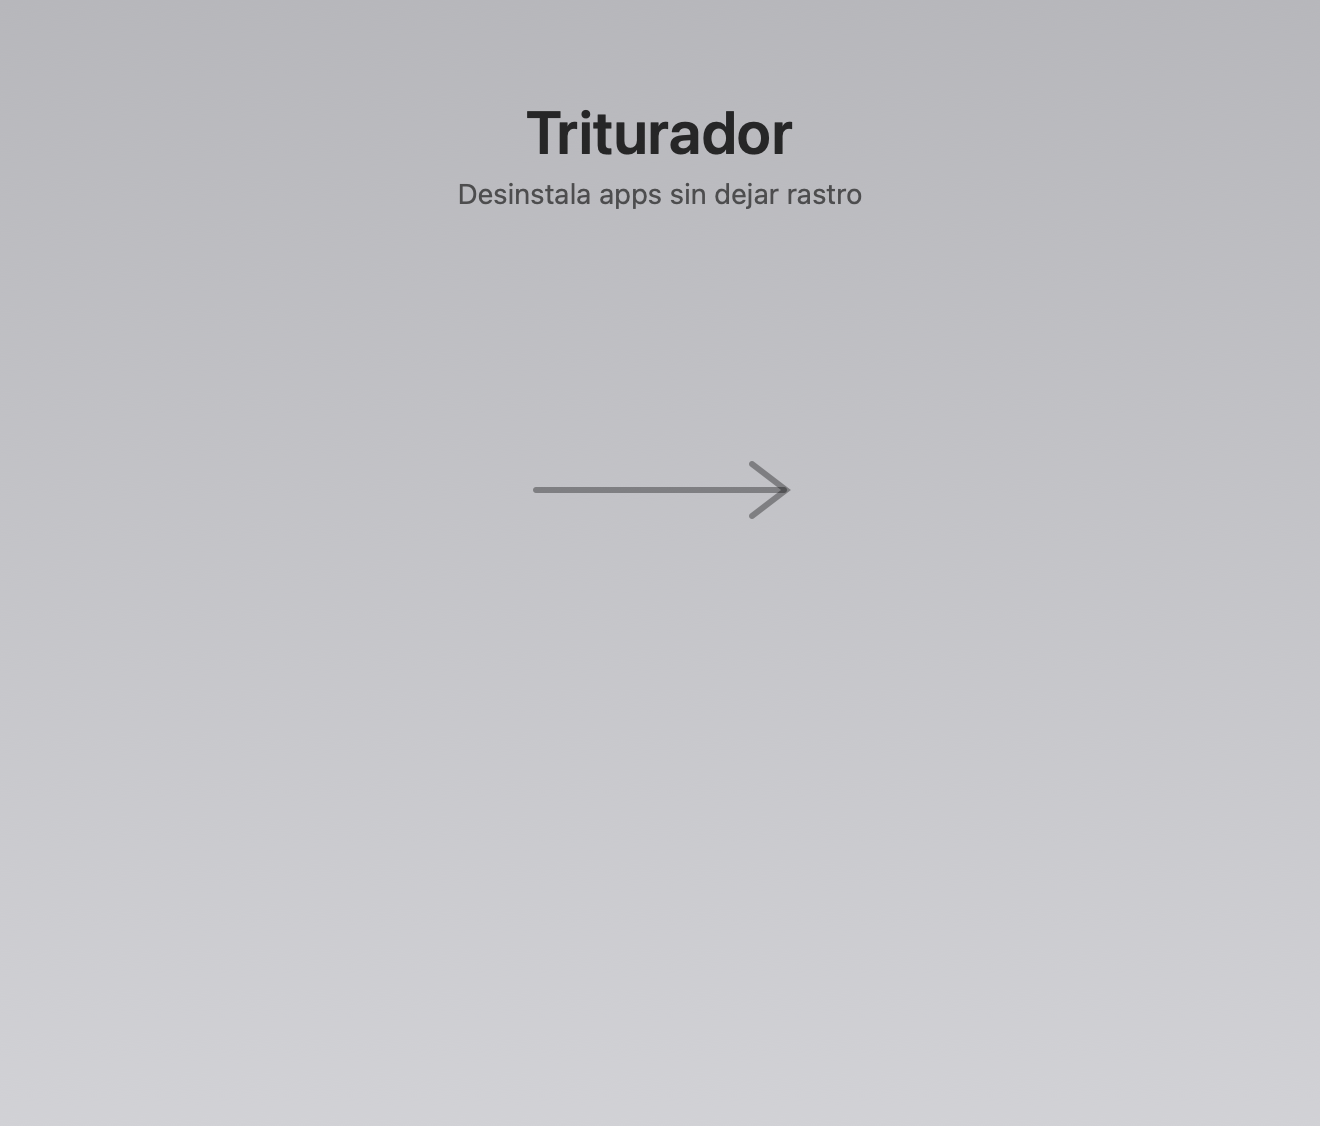
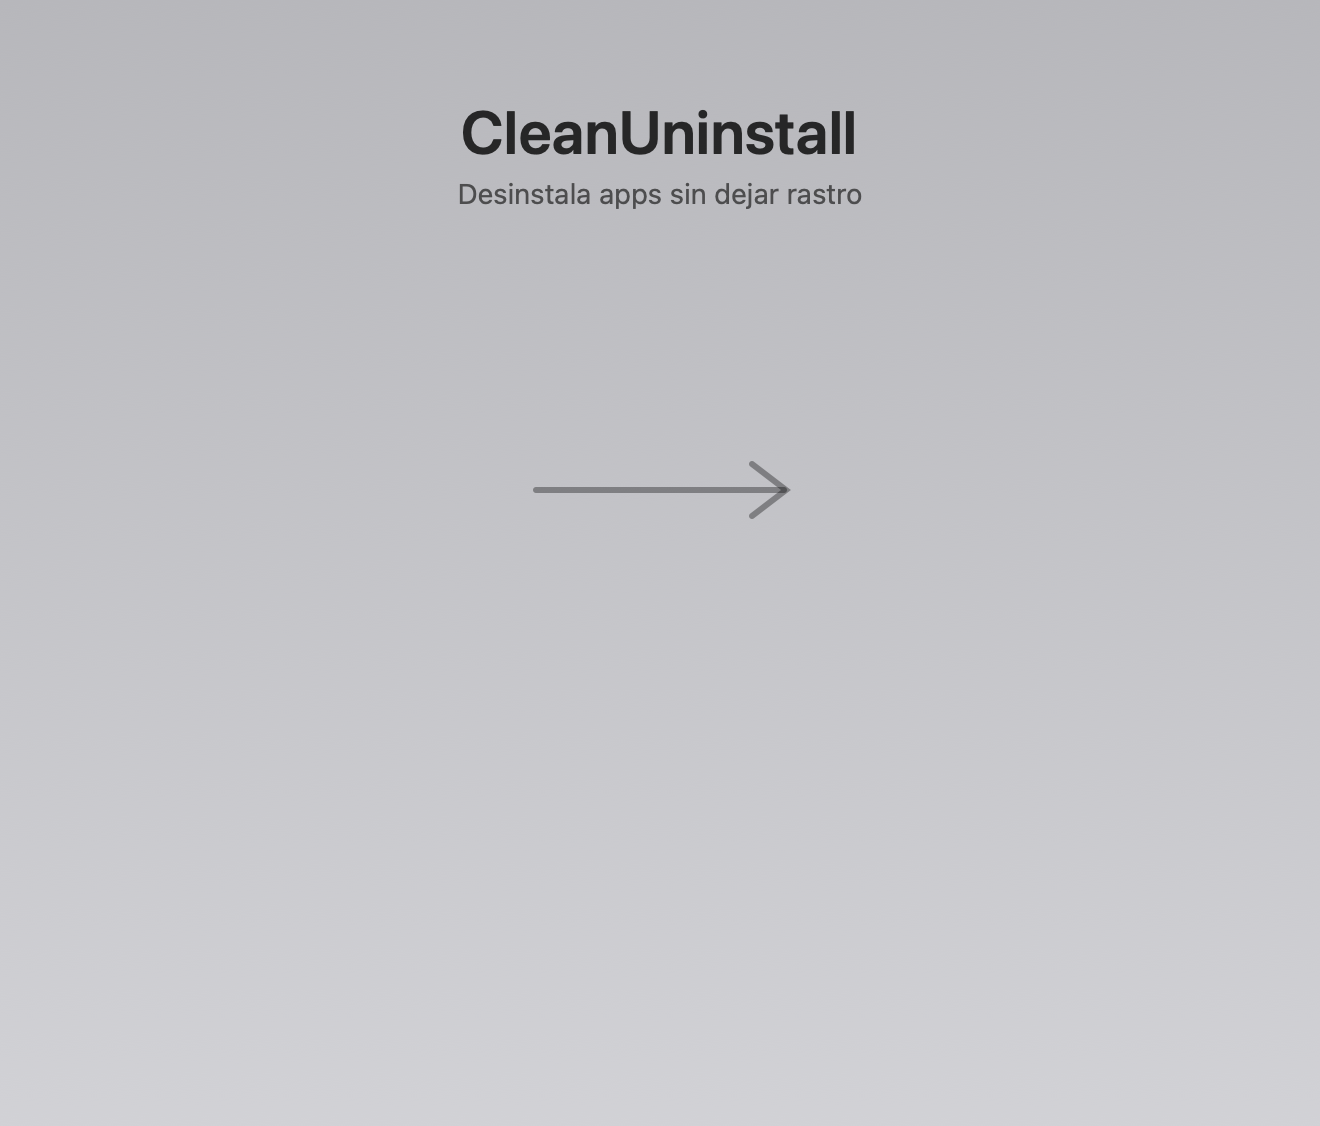
Se llama CleanUninstall (antes Triturador) y actualización automática opcional
- Nombre visible, ventana, textos, DMG, LÉEME, README y fondo del DMG.
  El identificador (com.snapsis.triturador) no cambia: los permisos siguen.
- Transición desde la 1.1.0: el DMG lleva una copia oculta «Triturador.app»
  para su actualizador, y la app se renombra sola al abrirse con ese nombre.
- El DMG pasa a APFS: en HFS+ la marca de oculto se guarda como FinderInfo
  y rompe la firma.
- Actualizador con «Actualizar automáticamente» (mismo de Calculadora+).

Changed region(s): [[0.3417, 0.0933, 0.6523, 0.1554]]

diff --git a/Sources/Triturador/Actualizacion.swift b/Sources/Triturador/Actualizacion.swift
@@ -3,11 +3,11 @@ import CryptoKit
 import SwiftUI
 
 // Actualización desde las Releases de GitHub. El mismo archivo vive en cada app
-// (SubFix, Triturador, Calculadora+, Peek a Boo); sólo cambian estas dos líneas.
+// (SubFix, CleanUninstall, Calculadora+, Peek a Boo, TRM Fixer); sólo cambian estas dos líneas.
 enum ConfigDeActualizacion {
-    static let repositorio = "snapsis22-coder/triturador"
+    static let repositorio = "snapsis22-coder/cleanuninstall"
     /// Cómo se llama el .app dentro del DMG.
-    static let app = "Triturador"
+    static let app = "CleanUninstall"
     /// Repo privado: se consulta y se baja con `gh` y la sesión de GitHub del Mac,
     /// sin guardar ninguna clave dentro de la app.
     static let privado = false
@@ -15,6 +15,11 @@ enum ConfigDeActualizacion {
 
 /// Busca al abrir (como mucho una vez cada 20 h) o desde el menú, y avisa en una ventanita.
 /// Sólo instala cuando el usuario pulsa «Actualizar», y no mientras la app está ocupada.
+///
+/// Con «Actualizar automáticamente» (lo escoge el usuario; viene apagado) busca también
+/// cada 6 h con la app abierta, baja y comprueba la versión nueva en segundo plano sin
+/// preguntar, la instala AL CERRAR la app (para no cortar nada a medias) y, al abrirla
+/// otra vez, avisa: «Se actualizó a la X», con las novedades.
 ///
 /// La confianza se apoya en dos cosas: el SHA-256 que publica GitHub y que la app nueva
 /// esté firmada con **el mismo certificado** que la instalada. Como la descarga la hace la
@@ -39,12 +44,22 @@ final class Actualizaciones: ObservableObject {
         case descargando(Version, Double)
         case instalando(Version)
         case fallo(String)
+        case actualizada(numero: String, notas: String)   // aviso tras instalarse sola
     }
 
     @Published private(set) var estado = Estado.quieto
     @Published var buscarSola = UserDefaults.standard.object(forKey: "actualizar.alAbrir") as? Bool ?? true {
         didSet { UserDefaults.standard.set(buscarSola, forKey: "actualizar.alAbrir") }
     }
+    @Published var automatico = UserDefaults.standard.bool(forKey: "actualizar.automatico") {
+        didSet { UserDefaults.standard.set(automatico, forKey: "actualizar.automatico") }
+    }
+    /// Versión ya bajada y comprobada, esperando a que se cierre la app para instalarse.
+    @Published private(set) var lista: (version: Version, app: URL)?
+    private var preparando = false
+    private var vigilante: Task<Void, Never>?
+    private var alCerrar: NSObjectProtocol?
+
     /// La app dice aquí si está a mitad de algo que no se debe cortar.
     var ocupada: () -> Bool = { false }
 
@@ -60,7 +75,34 @@ final class Actualizaciones: ObservableObject {
 
     /// Se llama al arrancar la app.
     func arrancar() {
-        guard buscarSola else { return }
+        // Instalar lo que haya quedado listo, justo antes de que la app se cierre
+        alCerrar = NotificationCenter.default.addObserver(
+            forName: NSApplication.willTerminateNotification, object: nil, queue: nil
+        ) { _ in MainActor.assumeIsolated { Actualizaciones.compartido.instalarLaLista() } }
+
+        // ¿Se instaló sola al cerrar la vez pasada? → avisar
+        if let aviso = UserDefaults.standard.dictionary(forKey: "actualizar.instalada"),
+           let numero = aviso["numero"] as? String {
+            UserDefaults.standard.removeObject(forKey: "actualizar.instalada")
+            if numero == Self.versionActual {
+                Task {
+                    try? await Task.sleep(for: .seconds(1.5))   // que la ventana principal salga primero
+                    estado = .actualizada(numero: numero, notas: aviso["notas"] as? String ?? "")
+                    mostrar()
+                }
+            }
+        }
+
+        // Con la app abierta: cada 6 h (solo en modo automático, para no sacar
+        // ventanitas a media tarea a quien prefiere que le pregunten)
+        vigilante = Task {
+            while !Task.isCancelled {
+                try? await Task.sleep(for: .seconds(6 * 3600))
+                if automatico { await buscar(aMano: false) }
+            }
+        }
+
+        guard buscarSola || automatico else { return }
         let ultima = UserDefaults.standard.object(forKey: "actualizar.ultima") as? Date ?? .distantPast
         guard Date().timeIntervalSince(ultima) > 20 * 3600 else { return }
         Task {
@@ -79,7 +121,10 @@ final class Actualizaciones: ObservableObject {
             let nueva = try await Self.consultarGitHub()
             UserDefaults.standard.set(Date(), forKey: "actualizar.ultima")
             let omitida = UserDefaults.standard.string(forKey: "actualizar.omitida")
-            if let nueva, aMano || nueva.numero != omitida {
+            if let nueva, automatico, !aMano {
+                estado = .quieto
+                await prepararEnSegundoPlano(nueva)
+            } else if let nueva, aMano || nueva.numero != omitida {
                 estado = .disponible(nueva)
                 mostrar()
             } else {
@@ -101,6 +146,41 @@ final class Actualizaciones: ObservableObject {
         estado = .quieto
         ventana?.close()
         ventana = nil
+    }
+
+    // MARK: Modo automático
+
+    /// Baja y comprueba (hash, firma, versión) sin enseñar nada; queda lista para
+    /// instalarse al cerrar la app.
+    private func prepararEnSegundoPlano(_ version: Version) async {
+        if let lista, lista.version.numero == version.numero { return }
+        guard !preparando, !Bundle.main.bundleURL.path.hasPrefix("/Volumes/") else { return }
+        preparando = true
+        defer { preparando = false }
+        let instalada = Bundle.main.bundleURL
+        do {
+            let dmg = try await Self.descargar(version) { _ in }
+            let nueva = try await Task.detached {
+                try Self.preparar(dmg: dmg, version: version.numero, contra: instalada)
+            }.value
+            lista = (version, nueva)
+        } catch {
+            // En silencio: se reintenta en la próxima búsqueda
+        }
+    }
+
+    /// Al cerrarse la app: cambia la vieja (a la Papelera) por la nueva ya comprobada
+    /// y deja anotado el aviso para la próxima vez que se abra.
+    fileprivate func instalarLaLista() {
+        guard let lista else { return }
+        self.lista = nil
+        do {
+            try Self.instalar(lista.app, en: Bundle.main.bundleURL)
+            UserDefaults.standard.set(["numero": lista.version.numero, "notas": lista.version.notas],
+                                      forKey: "actualizar.instalada")
+        } catch {
+            // Si falla, la vieja vuelve a su sitio (lo hace `instalar`) y se intenta otro día
+        }
     }
 
     // MARK: Instalar
@@ -169,7 +249,11 @@ final class Actualizaciones: ObservableObject {
         if let h = hash, h.hasPrefix("sha256:") { hash = String(h.dropFirst(7)) } else { hash = nil }
         var numero = p.tag_name
         if numero.lowercased().hasPrefix("v") { numero.removeFirst() }
-        return Version(numero: numero, etiqueta: p.tag_name, notas: p.body ?? "",
+        // Sin el pie que publicar.sh pone para quien baja el DMG a mano
+        var notas = p.body ?? ""
+        if let pie = notas.range(of: "Descarga el .dmg de abajo") { notas = String(notas[..<pie.lowerBound]) }
+        notas = notas.trimmingCharacters(in: .whitespacesAndNewlines)
+        return Version(numero: numero, etiqueta: p.tag_name, notas: notas,
                        dmg: dmg.browser_download_url, sha256: hash)
     }
 
@@ -378,6 +462,9 @@ struct VentanaDeActualizacion: View {
                 .frame(height: 120)
                 .background(RoundedRectangle(cornerRadius: 8).fill(.quaternary.opacity(0.5)))
             }
+            Toggle("Actualizar automáticamente de ahora en adelante", isOn: $modelo.automatico)
+                .toggleStyle(.checkbox).font(.callout)
+                .help("Se baja sola, se instala al cerrar la app y te avisa al abrirla")
             HStack {
                 Toggle("Buscar al abrir", isOn: $modelo.buscarSola).toggleStyle(.checkbox).font(.callout)
                 Spacer()
@@ -400,6 +487,27 @@ struct VentanaDeActualizacion: View {
             Text("Ya tienes la última versión").font(.headline)
             Text("\(app) \(Actualizaciones.versionActual) es la más reciente.").font(.callout).foregroundStyle(.secondary)
             HStack { Spacer(); Button("Aceptar") { modelo.cerrar() }.keyboardShortcut(.defaultAction) }
+        case .actualizada(let numero, let notas):
+            Text("\(app) se actualizó a la \(numero)").font(.headline)
+            Text("Se instaló sola al cerrar la app. Esto es lo nuevo:")
+                .font(.callout).foregroundStyle(.secondary)
+            if !notas.isEmpty {
+                ScrollView {
+                    Text((try? AttributedString(markdown: notas, options: .init(
+                        interpretedSyntax: .inlineOnlyPreservingWhitespace))) ?? AttributedString(notas))
+                        .font(.callout).frame(maxWidth: .infinity, alignment: .leading).textSelection(.enabled)
+                        .padding(10)
+                }
+                .frame(height: 120)
+                .background(RoundedRectangle(cornerRadius: 8).fill(.quaternary.opacity(0.5)))
+            }
+            HStack {
+                Toggle("Actualizar automáticamente", isOn: $modelo.automatico)
+                    .toggleStyle(.checkbox).font(.callout)
+                Spacer()
+                Button("Aceptar") { modelo.cerrar() }.keyboardShortcut(.defaultAction)
+            }
+            .padding(.top, 4)
         case .fallo(let motivo):
             Text("No se pudo actualizar").font(.headline)
             Text(motivo).font(.callout).foregroundStyle(.secondary).fixedSize(horizontal: false, vertical: true)
@@ -418,5 +526,9 @@ struct ComandosDeActualizacion: View {
     var body: some View {
         Button("Buscar actualizaciones…") { Task { await modelo.buscar(aMano: true) } }
         Toggle("Buscar actualizaciones al abrir", isOn: $modelo.buscarSola)
+        Toggle("Actualizar automáticamente", isOn: $modelo.automatico)
+        if let lista = modelo.lista {
+            Text("La \(lista.version.numero) se instalará al cerrar \(ConfigDeActualizacion.app)")
+        }
     }
 }

diff --git a/Sources/Triturador/CambioDeNombre.swift b/Sources/Triturador/CambioDeNombre.swift
@@ -1,0 +1,36 @@
+import AppKit
+
+/// Hasta la 1.1.0 la app se llamaba Triturador. El actualizador de esa versión instala la
+/// nueva encima de /Applications/Triturador.app (el DMG lleva una copia oculta con ese
+/// nombre). Al abrirse ahí, la app se cambia sola el nombre a CleanUninstall.app y se
+/// vuelve a abrir desde la ruta nueva. El identificador no cambia, así que los permisos
+/// (Acceso total al disco) siguen valiendo.
+enum CambioDeNombre {
+    static let viejo = "Triturador.app"
+    static let nuevo = "CleanUninstall.app"
+
+    /// Devuelve true si se está renombrando (y la app va a cerrarse para reabrirse).
+    static func siHaceFalta() -> Bool {
+        let actual = Bundle.main.bundleURL
+        guard actual.lastPathComponent == viejo else { return false }
+        // La copia del DMG viene marcada como oculta (para que no se vea junto a la
+        // visible); en Aplicaciones tiene que verse, se renombre o no.
+        var valores = URLResourceValues()
+        valores.isHidden = false
+        var visible = actual
+        try? visible.setResourceValues(valores)
+
+        let destino = actual.deletingLastPathComponent().appendingPathComponent(nuevo)
+        let gestor = FileManager.default
+        // Si ya hay un CleanUninstall al lado (instalado a mano), no se toca nada
+        guard !gestor.fileExists(atPath: destino.path) else { return false }
+        do { try gestor.moveItem(at: actual, to: destino) } catch { return false }
+
+        let configuracion = NSWorkspace.OpenConfiguration()
+        configuracion.createsNewApplicationInstance = true
+        NSWorkspace.shared.openApplication(at: destino, configuration: configuracion) { _, _ in
+            DispatchQueue.main.async { NSApp.terminate(nil) }
+        }
+        return true
+    }
+}

diff --git a/Sources/TrituradorUI/Vistas.swift b/Sources/TrituradorUI/Vistas.swift
@@ -93,7 +93,7 @@ struct Cabecera<Accesorio: View>: View {
             .frame(width: 46, height: 46)
 
             VStack(alignment: .leading, spacing: 2) {
-                Text("Triturador")
+                Text("CleanUninstall")
                     .font(.system(size: 24, weight: .bold, design: .rounded))
                     .foregroundStyle(.white)
                 Text(lema)
@@ -145,7 +145,7 @@ struct PantallaVacia: View {
                     Text("Arrastra una app aquí")
                         .font(.system(size: 21, weight: .bold, design: .rounded))
                         .foregroundStyle(Tema.tinta)
-                    Text("Triturador busca lo que la app dejó escondido —preferencias, cachés, servicios en "
+                    Text("CleanUninstall busca lo que la app dejó escondido —preferencias, cachés, servicios en "
                          + "segundo plano y ayudantes con permisos— y lo manda a la Papelera. Nada se borra de verdad.")
                         .font(.system(size: 13))
                         .foregroundStyle(Tema.tintaSuave)
@@ -542,7 +542,7 @@ struct AvisoDeAccesoTotal: View {
     var body: some View {
         HStack(spacing: 10) {
             Image(systemName: "lock.shield.fill").font(.system(size: 14, weight: .semibold)).foregroundStyle(Tema.ambar)
-            Text("Triturador no tiene «Acceso total al disco». Sin él macOS le esconde parte de los datos de otras apps, "
+            Text("CleanUninstall no tiene «Acceso total al disco». Sin él macOS le esconde parte de los datos de otras apps, "
                  + "y la lista puede quedar incompleta.")
                 .font(.system(size: 12.5)).foregroundStyle(Tema.tinta)
                 .fixedSize(horizontal: false, vertical: true)

diff --git a/Sources/TrituradorKit/Papelera.swift b/Sources/TrituradorKit/Papelera.swift
@@ -103,7 +103,7 @@ public struct Papelera: Sendable {
 
     private func comoAdministrador(_ elementos: [Elemento]) async -> ResultadoAdmin {
         let guion = Self.guionDeAdministrador(elementos, papelera: entorno.papelera, uid: entorno.uid, gid: entorno.gid)
-        let aviso = "Triturador necesita permiso para mover a la Papelera archivos del sistema que dejó la app."
+        let aviso = "CleanUninstall necesita permiso para mover a la Papelera archivos del sistema que dejó la app."
         let resultado = ejecutar("/usr/bin/osascript", ["-e", Self.appleScript(guion, aviso: aviso)])
 
         var salida = ResultadoAdmin()
@@ -199,7 +199,7 @@ public struct Papelera: Sendable {
     static func explicar(_ error: Error) -> String {
         let e = error as NSError
         if esDePermisos(error) {
-            return "macOS no me dejó moverlo. Prueba a darle a Triturador «Acceso total al disco» o «Administración de apps» en Ajustes del Sistema."
+            return "macOS no me dejó moverlo. Prueba a darle a CleanUninstall «Acceso total al disco» o «Administración de apps» en Ajustes del Sistema."
         }
         if e.domain == NSCocoaErrorDomain, e.code == NSFileNoSuchFileError || e.code == NSFileReadNoSuchFileError {
             return "Ya no estaba."

diff --git a/Sources/Triturador/TrituradorApp.swift b/Sources/Triturador/TrituradorApp.swift
@@ -5,10 +5,13 @@ import TrituradorUI
 struct TrituradorApp: App {
     @StateObject private var modelo = Modelo()
 
-    init() { Actualizaciones.compartido.arrancar() }
+    init() {
+        // Viniendo de Triturador 1.1.0: renombrarse y reabrirse antes de nada
+        if !CambioDeNombre.siHaceFalta() { Actualizaciones.compartido.arrancar() }
+    }
 
     var body: some Scene {
-        Window("Triturador", id: "principal") {
+        Window("CleanUninstall", id: "principal") {
             VistaPrincipal(modelo: modelo)
                 .frame(minWidth: 720, minHeight: 580)
                 // Una app soltada sobre el icono del Dock llega por aquí.

diff --git a/Sources/TrituradorKit/Guardia.swift b/Sources/TrituradorKit/Guardia.swift
@@ -61,6 +61,6 @@ public enum Guardia {
             let base = carpeta.standardizedFileURL.path
             return ruta.hasPrefix(base + "/") && ruta != base
         }
-        return dentroDeCatalogo ? nil : "No está en ninguna de las carpetas donde Triturador busca."
+        return dentroDeCatalogo ? nil : "No está en ninguna de las carpetas donde CleanUninstall busca."
     }
 }

diff --git a/Sources/TrituradorKit/AppObjetivo.swift b/Sources/TrituradorKit/AppObjetivo.swift
@@ -102,7 +102,7 @@ extension AppObjetivo {
         } else if id.hasPrefix("com.apple."), firmadaPorAppleComoSistema(url) {
             protegida = "Es parte de macOS."
         } else if let propio = propioIdentificador, id == propio {
-            protegida = "Es el propio Triturador."
+            protegida = "Es el propio CleanUninstall."
         }
 
         return AppObjetivo(

diff --git a/herramientas/hacer_fondo_dmg.swift b/herramientas/hacer_fondo_dmg.swift
@@ -91,7 +91,7 @@ func pintar(_ fondo: Fondo) -> NSImage? {
                     withAttributes: atributos)
     }
 
-    escribir("Triturador", 30, .semibold, 0.95, 48)
+    escribir("CleanUninstall", 30, .semibold, 0.95, 48)
     escribir("Desinstala apps sin dejar rastro", 14, .regular, fondo.textoOscuro ? 0.7 : 0.6, 88)
     lienzo.unlockFocus()
     return lienzo

diff --git a/README.md b/README.md
@@ -1,4 +1,6 @@
-# Triturador
+# CleanUninstall
+
+*(Antes se llamaba Triturador.)*
 
 Desinstalador para macOS. Arrastras una app y busca lo que deja escondido (preferencias, cachés,
 servicios en segundo plano, ayudantes con permisos, recibos de instalación) para mandarlo a la
@@ -15,13 +17,13 @@ Papelera. Nada se borra de verdad.
 
 Descarga el `.dmg` de [Releases](../../releases), ábrelo y arrastra la app a Applications. La primera vez: Ajustes del Sistema › Privacidad y Seguridad › *Abrir de todos modos*. Para que encuentre todo, dale *Acceso total al disco*.
 
-Las versiones siguientes se instalan desde la propia app: al abrir (como mucho una vez al día) o desde el menú **Triturador › Buscar actualizaciones…**, avisa si hay una nueva en Releases y la instala solo si pulsas **Actualizar**. Antes comprueba que el DMG coincida con el hash que publica GitHub y que la app esté firmada con el mismo certificado; la versión vieja va a la Papelera. Como la descarga no pasa por el navegador, macOS no vuelve a pedir *Abrir de todos modos*.
+Las versiones siguientes se instalan desde la propia app: al abrir (como mucho una vez al día) o desde el menú **CleanUninstall › Buscar actualizaciones…**, avisa si hay una nueva en Releases y la instala solo si pulsas **Actualizar**. Con **CleanUninstall › Actualizar automáticamente** (viene apagado) la baja sola, la instala al cerrar la app y avisa al abrirla. Antes comprueba que el DMG coincida con el hash que publica GitHub y que la app esté firmada con el mismo certificado; la versión vieja va a la Papelera. Como la descarga no pasa por el navegador, macOS no vuelve a pedir *Abrir de todos modos*.
 
 ## Compilar
 
     ./build_app.sh                 # compila, firma e instala en /Applications
     swift run trituradortests      # pruebas (contra un sistema de mentira)
     ./build_dmg.sh                 # DMG con fondo y LÉEME
-    ./publicar.sh 1.1.0 "notas"    # pruebas, DMG, etiqueta y Release
+    ./publicar.sh 1.2.0 "notas"    # pruebas, DMG, etiqueta y Release
     .build/debug/trituradortests --buscar /Applications/Algo.app   # qué encontraría (sólo lee)
     swift run trituradorshot <carpeta>                             # retratos de la interfaz
